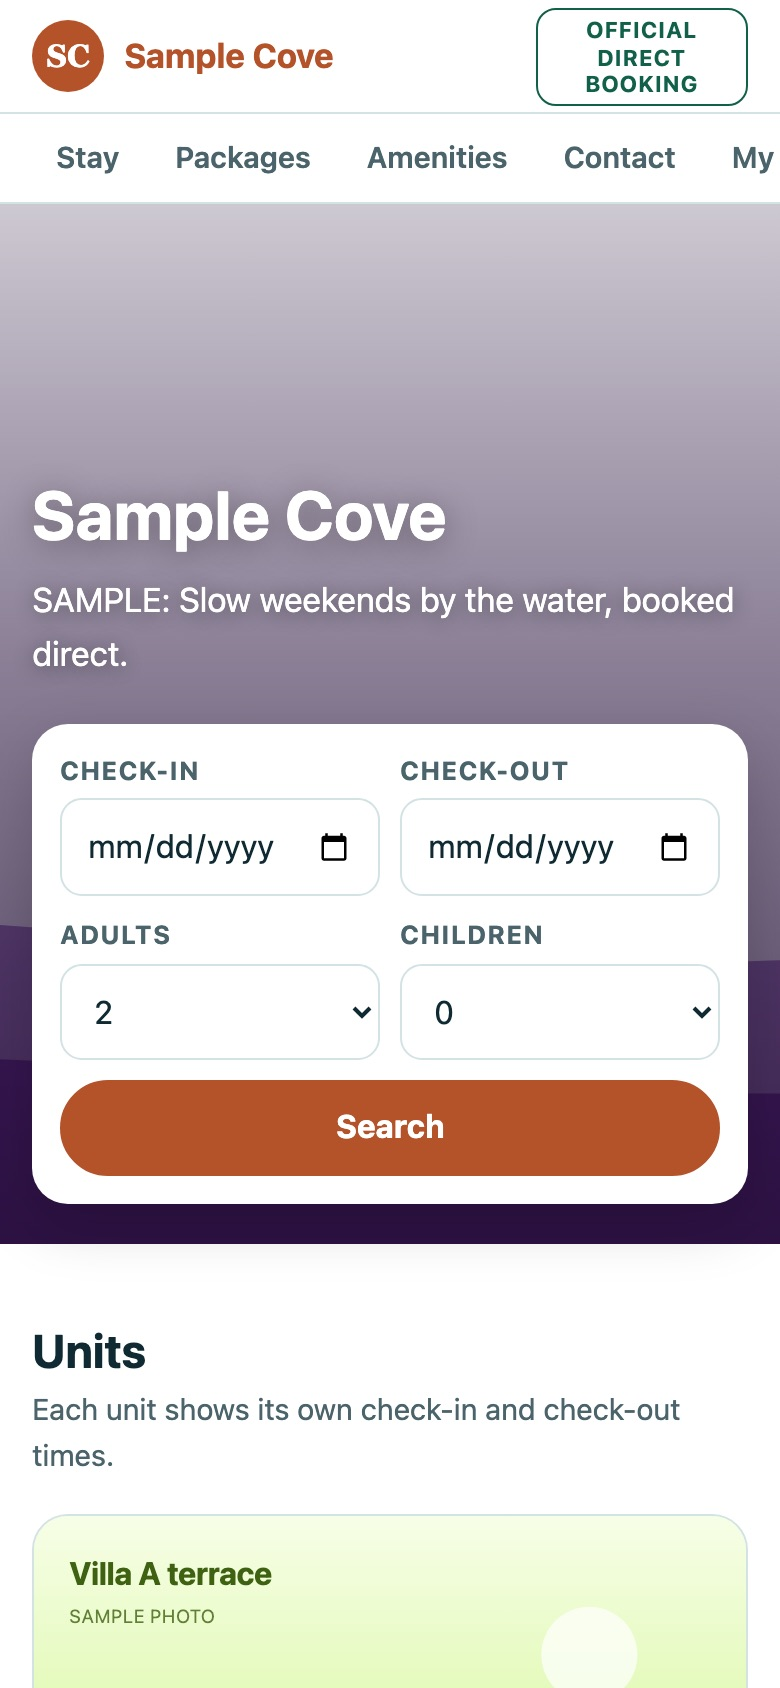
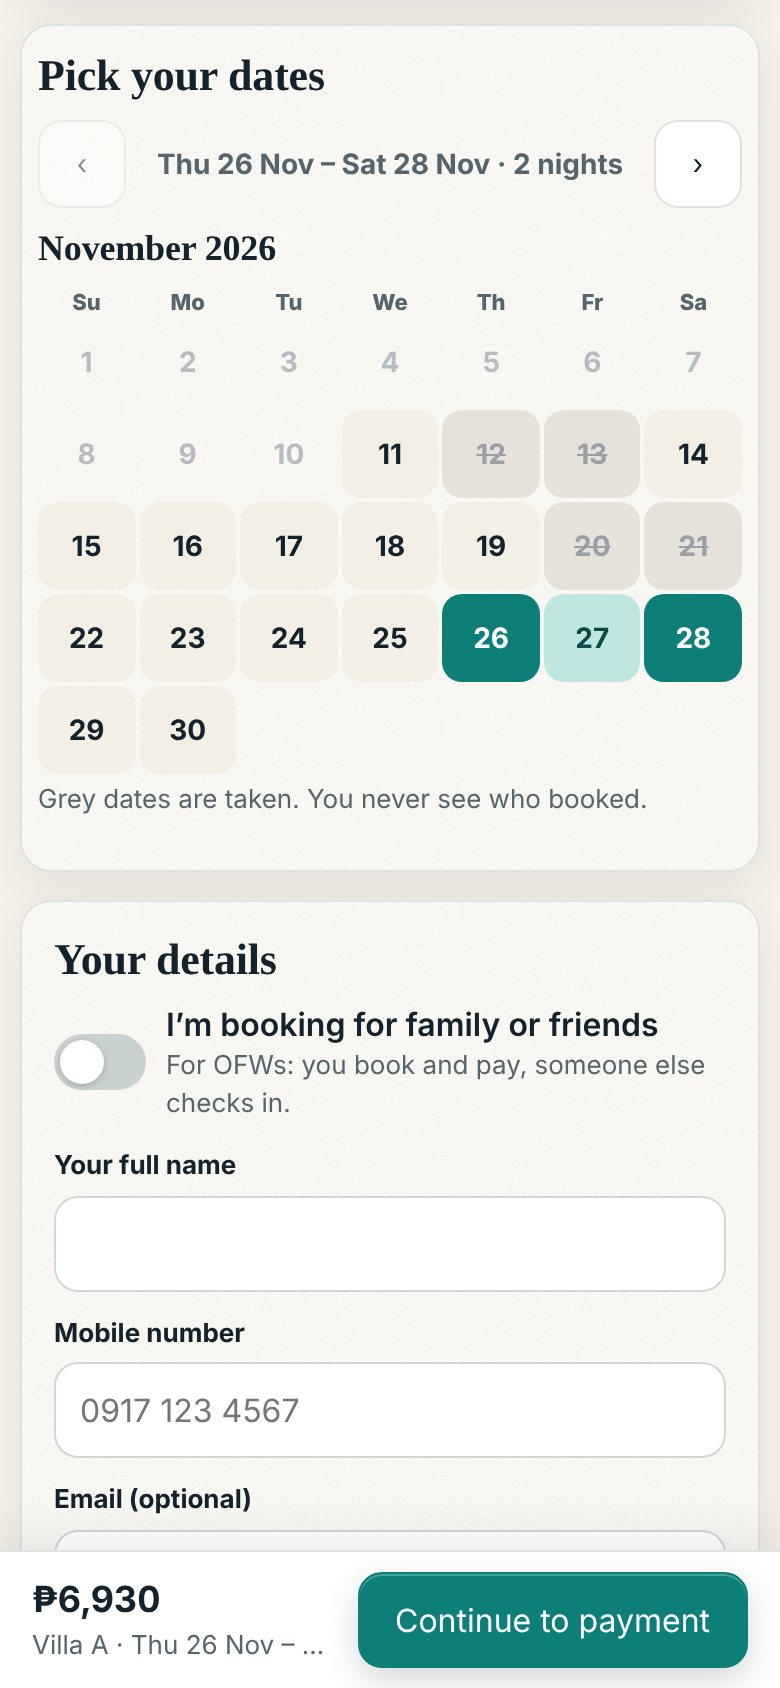
feat(staycation): Staycation Booking is live
The system is live at negosyoplans.com/stays (Angie, 10 Nov 2026).

- Deck card: Coming soon → Live, real features (paid dates block by
  themselves, weekend rates/promos/packages, OFW booking for family,
  checklist + house agreement, own web address), facts as stats
  (P0 monthly fee · 5% per confirmed stay · guests pay you), CTA
  'See how it works' → /staycation.
- /staycation: Live chip, honest how-it-works for guests and owners
  (pay the owner at checkout, dates held, owner confirms), 9 features the
  app has today, 'Create my booking page' → negosyoplans.com/stays
  instead of the pilot sign-up.
- Screens replaced with the LIVE app (SAMPLE data, 780x1688): guest page,
  checkout, owner home, payment to check. Old screens from the earlier
  test app removed.
- Page meta, portfolio line and the motion map node (gold = live) updated.

Checks: build OK; /staycation + deck card at 360/390/768/820/1024/1180/
1280/1440 (no sideways scroll, CTAs 52 px, 4 screens load, no 'coming
soon'); test:lang-toggle 306/306, test:affiliates 228/228,
test:affiliates-rate 133/133.

Claude-Session: https://claude.ai/code/session_011KDHvvzmnif7Fu1tooWC7n

diff --git a/src/pages/Staycation.tsx b/src/pages/Staycation.tsx
@@ -1,51 +1,52 @@
 import { useEffect } from 'react'
 import type { CSSProperties } from 'react'
 import {
-  Building2, Tags, Clock, Users, ShieldCheck, Palette, Share2,
-  CalendarRange, Receipt, FileSignature, Wallet, CheckCircle2, Inbox, CalendarDays, ClipboardCheck, BadgeCheck,
+  Building2, Tags, Users, Palette, Share2, Globe, RefreshCw, Smartphone,
+  CalendarRange, Receipt, FileSignature, Wallet, CheckCircle2, Inbox, CalendarDays, ClipboardCheck, BadgeCheck, ArrowRight,
 } from 'lucide-react'
 import Reveal from '../components/ui/Reveal'
-import PilotForm from '../components/automation/PilotForm'
 import { StayMark } from '../components/ProductDeck'
-import '../components/automation/automation.css'
 
-/* ── Staycation Booking (/staycation) — COMING SOON (2026-10-27) ─────────────────────────────
-   The deck card's own page: what it will do, for guests and for owners, and a pilot sign-up. Honest copy only: it is
-   NOT open to customers yet — no prices, no "book now", no link to the private preview. The screens are our own app
-   with SAMPLE data (no real customers, no third-party photos). The sign-up reuses the Business Automation pilot form
-   (Supabase pilot_signups), tagged "Staycation booking" in `automations` — no database change.
+/* ── Staycation Booking (/staycation) — LIVE (10 Nov 2026) ────────────────────────────────────
+   The deck card's own page: how it works for guests and owners, what it does, real screens and the sign-up button
+   (negosyoplans.com/stays). Honest copy only — every line here is something the live app does today. The screens are
+   the live app with SAMPLE data (no real customers, no third-party photos). Terms as in the app: free to start, 5% of
+   each confirmed stay, no monthly fee; guests pay the deposit straight to the owner — Lintejas never holds it.
    Same site header / footer / navy background as the other venture pages; sea-teal accent like the deck card. */
 
 const TEAL = '#2EC4B6'
-const LINE = 'Direct booking for staycation owners: your own page, your own prices, and every request in one place.'
+const LINE = 'Direct booking for staycation owners: your own page, your own prices, and every booking in one place.'
+const APP = 'https://negosyoplans.com/stays'
 
 const GUEST_STEPS = [
-  { icon: CalendarRange, t: 'Pick a unit and dates', d: 'A calendar for each unit shows what is free, booked or on hold.' },
+  { icon: CalendarRange, t: 'Pick a unit and dates', d: 'A calendar for each unit shows which nights are free.' },
   { icon: Receipt, t: 'See the price', d: 'The total is worked out from the owner’s rates, promos and packages.' },
-  { icon: FileSignature, t: 'Sign the agreement', d: 'House rules, check-in times and the unit inventory, signed with a typed name.' },
-  { icon: Wallet, t: 'Send the deposit', d: 'GCash, Maya, a bank or a transfer from abroad, with a reference or a proof photo.' },
-  { icon: CheckCircle2, t: 'The owner confirms', d: 'Nothing is booked until the owner checks it and says yes.' },
+  { icon: FileSignature, t: 'Sign the house agreement', d: 'The owner’s house rules, signed with a typed name.' },
+  { icon: Wallet, t: 'Pay the deposit to the owner', d: 'GCash, bank or QR — straight to the owner. The guest sends the reference and a screenshot, and the dates are held at once.' },
+  { icon: CheckCircle2, t: 'The owner confirms', d: 'The owner checks the money and confirms. If nothing arrived, the dates open again.' },
 ]
 const OWNER_STEPS = [
-  { icon: Inbox, t: 'Requests inbox', d: 'Accept, decline or suggest other dates, with ready-made messages to send.' },
-  { icon: CalendarDays, t: 'Calendar', d: 'Every unit and night at a glance; block dates for maintenance or walk-ins.' },
-  { icon: ClipboardCheck, t: 'Handover and turnover', d: 'An inventory checklist at check-in and check-out, signed by the guest.' },
-  { icon: BadgeCheck, t: 'Your own brand and link', d: 'Your logo, colour and tagline on a page with your own address.' },
+  { icon: Inbox, t: 'Payments to check', d: 'Every paid booking with its reference and screenshot — confirm or decline in one tap, then send a ready message.' },
+  { icon: CalendarDays, t: 'Calendar', d: 'Every unit and night at a glance; add walk-in, phone or Facebook bookings yourself.' },
+  { icon: ClipboardCheck, t: 'Check-in and check-out', d: 'A checklist for each stay, balance paid, and private notes.' },
+  { icon: BadgeCheck, t: 'Your monthly statement', d: 'Free to start: 5% of each confirmed stay, no monthly fee. Paid once a month by GoTyme QR.' },
 ]
 const FEATURES = [
   { icon: Building2, t: 'Multi-unit', d: 'Villas, cabins or rooms — one page for all of them.' },
-  { icon: Tags, t: 'Owner-ruled pricing and promos', d: 'Weekday, weekend and peak rates, promos and packages you set.' },
-  { icon: Clock, t: 'Check-in and check-out times per unit', d: 'Each unit keeps its own times, with early or late on request.' },
-  { icon: Users, t: 'Book for someone else', d: 'An OFW abroad books and pays; a family member checks in first.' },
-  { icon: ShieldCheck, t: 'Security deposit and inventory checklist', d: 'What was there at check-in, what is missing at check-out.' },
-  { icon: Palette, t: 'Your own logo, colour and tagline', d: 'A page that looks like your place, not like ours.' },
-  { icon: Share2, t: 'Share link preview', d: 'Your photo, name and tagline when the link is shared on Messenger or Facebook.' },
+  { icon: Tags, t: 'Your prices, promos and packages', d: 'Weekday and Fri/Sat rates, promos (also with a secret code) and fixed-price packages.' },
+  { icon: Users, t: 'Book for someone else', d: 'An OFW abroad books and pays; a family member checks in.' },
+  { icon: FileSignature, t: 'House agreement and checklist', d: 'Guests sign your rules before they book; tick what was there at check-in and check-out.' },
+  { icon: Palette, t: 'Your own logo, colour and photos', d: 'A theme, cover photo, logo and gallery — a page that looks like your place.' },
+  { icon: Globe, t: 'Your own web address', d: 'Use the free link, or connect your own domain such as www.yourplace.ph.' },
+  { icon: RefreshCw, t: 'Airbnb / Booking.com calendar sync', d: 'Nights booked there are blocked here, and the other way round — only “busy” dates, never names.' },
+  { icon: Share2, t: 'Share link preview', d: 'Your name and tagline when the link is shared on Messenger or Facebook.' },
+  { icon: Smartphone, t: 'An app on your phone', d: 'Install the dashboard on your home screen — with a built-in guide, in English and Tagalog.' },
 ]
 const SCREENS = [
-  { src: '/brand/staycation/01-guest-page.jpg', t: 'The guest page', d: 'Your name, tagline and colour' },
-  { src: '/brand/staycation/02-book-for-someone.jpg', t: 'Book for someone else', d: 'Booker abroad, family checks in' },
-  { src: '/brand/staycation/03-owner-inbox.jpg', t: 'The owner’s inbox', d: 'Who booked, who checks in' },
-  { src: '/brand/staycation/04-handover.jpg', t: 'Check-in handover', d: 'Inventory checklist on the phone' },
+  { src: '/brand/staycation/01-guest-page.jpg', t: 'The guest page', d: 'Pick a unit and dates' },
+  { src: '/brand/staycation/02-checkout.jpg', t: 'Checkout', d: 'Pay the deposit straight to the owner' },
+  { src: '/brand/staycation/03-owner-home.jpg', t: 'The owner’s home', d: 'Calendar, this week and what needs you' },
+  { src: '/brand/staycation/04-paid-check.jpg', t: 'A payment to check', d: 'Reference, then Confirm or Decline' },
 ]
 
 function Chip() {
@@ -53,8 +54,17 @@ function Chip() {
     <div className="inline-flex items-center gap-2 px-4 py-1.5 rounded-full text-xs font-semibold tracking-widest uppercase mb-6"
       style={{ background: 'rgba(46,196,182,0.10)', border: '1px solid rgba(46,196,182,0.35)', color: TEAL }}>
       <span className="w-1.5 h-1.5 rounded-full" style={{ background: TEAL }} />
-      Coming soon
+      Live
     </div>
+  )
+}
+
+function StartButton() {
+  return (
+    <a href={APP} className="inline-flex items-center justify-center gap-2 mt-7 px-7 rounded-xl font-semibold text-base"
+      style={{ minHeight: 52, background: TEAL, color: '#06221F', boxShadow: '0 10px 30px rgba(46,196,182,0.25)' }}>
+      Create my booking page <ArrowRight size={18} aria-hidden="true" />
+    </a>
   )
 }
 
@@ -93,12 +103,13 @@ export default function Staycation() {
           <Chip />
           <div className="mb-5 mx-auto" aria-hidden="true" style={{ width: '3.75rem', height: '3.75rem' }}>{StayMark}</div>
           <h1 className="font-display font-semibold text-4xl sm:text-5xl lg:text-6xl mb-4" style={{ color: 'var(--cream)', textWrap: 'balance' } as CSSProperties}>
-            Staycation <span style={{ color: TEAL }}>Booking</span> — coming soon
+            Staycation <span style={{ color: TEAL }}>Booking</span>
           </h1>
           <p className="text-lg max-w-2xl mx-auto" style={{ color: 'var(--slate)' }}>{LINE}</p>
           <p className="text-sm max-w-2xl mx-auto mt-3" style={{ color: 'var(--slate)' }}>
-            Not open to customers yet. Owners can join the pilot below.
+            Free to start — Lintejas charges 5% of each stay you confirm. No monthly fee. Guests pay the deposit straight to you.
           </p>
+          <StartButton />
         </Reveal>
 
         {/* ── How it works ── */}
@@ -112,7 +123,7 @@ export default function Staycation() {
 
         {/* ── Features ── */}
         <Reveal className="mb-16">
-          <h2 className="font-display font-semibold text-3xl sm:text-4xl text-center mb-8" style={{ color: 'var(--cream)' }}>What it will do</h2>
+          <h2 className="font-display font-semibold text-3xl sm:text-4xl text-center mb-8" style={{ color: 'var(--cream)' }}>What it does</h2>
           <ul className="grid gap-4 sm:grid-cols-2 lg:grid-cols-3">
             {FEATURES.map(f => (
               <li key={f.t} className="rounded-2xl border p-5 flex items-start gap-3" style={{ background: 'var(--glass-bg)', borderColor: 'var(--glass-border)' }}>
@@ -129,7 +140,7 @@ export default function Staycation() {
         {/* ── Screens (our own app, SAMPLE data) ── */}
         <Reveal className="mb-16">
           <h2 className="font-display font-semibold text-3xl sm:text-4xl text-center mb-2" style={{ color: 'var(--cream)' }}>A first look</h2>
-          <p className="text-sm text-center mb-8" style={{ color: 'var(--slate)' }}>Screens from the app in development, with SAMPLE data only.</p>
+          <p className="text-sm text-center mb-8" style={{ color: 'var(--slate)' }}>Screens from the live app, with SAMPLE data only.</p>
           <ul className="grid gap-5 grid-cols-2 lg:grid-cols-4">
             {SCREENS.map(s => (
               <li key={s.src} className="min-w-0">
@@ -146,13 +157,15 @@ export default function Staycation() {
           </ul>
         </Reveal>
 
-        {/* ── Join the pilot (the Business Automation pilot sign-up, tagged "Staycation booking") ── */}
+        {/* ── Start: the live app (sign up = property name + email, login link by email) ── */}
         <Reveal className="max-w-3xl mx-auto">
-          <section id="join" aria-labelledby="st-join-h" className="ba rounded-2xl p-6 sm:p-8"
-            style={{ '--ba-violet': '#0B6E66', '--ba-violet2': '#139C8F', '--ba-soft': '#E3F6F3', scrollMarginTop: 'calc(88px + env(safe-area-inset-top))' } as CSSProperties}>
-            <h2 id="st-join-h" className="ba-h2">Notify me / join the pilot</h2>
-            <p className="ba-sub">Run a staycation, resort or villas? Leave your details and we will contact you when the pilot opens. No payment is asked for.</p>
-            <PilotForm tag="Staycation booking" defaultType="Other" />
+          <section aria-labelledby="st-go-h" className="rounded-2xl border p-6 sm:p-8 text-center"
+            style={{ background: 'var(--glass-bg)', borderColor: 'rgba(46,196,182,0.35)' }}>
+            <h2 id="st-go-h" className="font-display font-semibold text-3xl mb-3" style={{ color: 'var(--cream)' }}>Create your booking page</h2>
+            <p className="text-sm max-w-xl mx-auto" style={{ color: 'var(--slate)' }}>
+              Your property name and email are all you need. A short setup guide walks you through prices, photos and how guests pay you.
+            </p>
+            <StartButton />
           </section>
         </Reveal>
 

diff --git a/src/components/ProductDeck.tsx b/src/components/ProductDeck.tsx
@@ -152,22 +152,22 @@ export const CARDS: Card[] = [
     ],
     stats: [{ b: '₱99', s: 'per month' }, { b: '7-day', s: 'free trial' }, { b: 'No', s: 'contract' }],
     cta: 'Start free' },
-  // Staycation Booking — COMING SOON (2026-10-27): direct booking for staycation owners, built on the Business Automation
-  // platform and not open to customers yet. Own page /staycation (pilot sign-up only). Sea-teal accent (index.css
-  // data-v="staycation"). Stats are facts, not figures. Placed directly after Matthew Lite.
-  { v: 'staycation', badgeSoon: true, soon: true, href: '/staycation', svg: StayMark,
-    title: 'Staycation Booking', hook: 'Your own booking page — guests pick dates, sign the house agreement and send the deposit, all in one link.',
-    pill: 'Coming soon', kicker: 'Direct booking for staycation owners', name: 'Staycation Booking',
-    promise: 'Your own booking page — guests pick dates, sign the house agreement and send the deposit, all in one link.',
-    pointsLabel: 'Planned features',
+  // Staycation Booking — LIVE (10 Nov 2026): direct booking for staycation owners at negosyoplans.com/stays.
+  // Guests pay the deposit straight to the owner at checkout; the owner pays Lintejas 5% of each confirmed stay.
+  // Sea-teal accent (index.css data-v="staycation"). Stats are facts, not figures. Placed directly after Matthew Lite.
+  { v: 'staycation', href: '/staycation', svg: StayMark,
+    title: 'Staycation Booking', hook: 'Your own booking page — guests pick dates, sign the house agreement and pay the deposit straight to you, all in one link.',
+    pill: 'Live', kicker: 'Direct booking for staycation owners', name: 'Staycation Booking',
+    promise: 'Your own booking page — guests pick dates, sign the house agreement and pay the deposit straight to you, all in one link.',
     points: [
-      { text: 'Per-unit availability calendar' },
-      { text: 'Owner-set prices, promos and packages' },
+      { text: 'Per-unit calendar — paid dates block by themselves' },
+      { text: 'Your prices, weekend rates, promos and packages' },
       { text: 'OFW-friendly: book for family, pay from abroad' },
-      { text: 'Check-in / check-out inventory checklist' },
+      { text: 'Check-in / check-out checklist, house agreement' },
+      { text: 'Your own web address — or the free link' },
     ],
-    stats: [{ b: 'Multi-unit', s: 'villas & rooms' }, { b: 'Your rules', s: 'prices & promos' }, { b: 'Direct', s: 'your own link' }],   // facts, no figures
-    cta: "See what's coming" },
+    stats: [{ b: '₱0', s: 'monthly fee' }, { b: '5%', s: 'per confirmed stay' }, { b: 'Direct', s: 'guests pay you' }],   // facts from the app's own terms
+    cta: 'See how it works' },
   { v: 'courses', badgeSoon: true, href: `${NP}/courses`, logo: '/brand/zam-mark.png', deckLogo: '/brand/zam-emblem.png',
     title: 'ZAM Academy', hook: 'Marketing that sells, not just gets likes.',
     pill: 'Courses', kicker: 'ZAM Academ.co', name: 'Digital Marketing',

diff --git a/src/App.tsx b/src/App.tsx
@@ -88,7 +88,7 @@ export default function App() {
             <Route path="/security"  element={<Security />} />
             <Route path="/automation" element={<Automation />} />
             <Route path="/staycation" element={<Staycation />} />
-            <Route path="/affiliates" element={<Affiliates />} />   {/* Affiliate program: one form for every brand (2 Nov 2026) */}   {/* Staycation Booking — coming soon (27 Oct 2026) */}
+            <Route path="/affiliates" element={<Affiliates />} />   {/* Affiliate program: one form for every brand (2 Nov 2026) */}   {/* Staycation Booking — live (10 Nov 2026) */}
             {/* Unknown public addresses → branded 404 (keeps nav + footer) */}
             <Route path="*"          element={<NotFound />} />
           </Route>

diff --git a/src/lib/portfolio.ts b/src/lib/portfolio.ts
@@ -26,7 +26,7 @@ const META: Record<string, Omit<PortfolioItem, 'v'>> = {
   lite: { name: 'Matthew Lite',
     purpose: 'Know every day if you really earned — sales, expenses, profit and your cash split at a glance.' },
   staycation: { name: 'Staycation Booking',
-    purpose: 'Direct booking for staycation owners — your own booking page, prices and house agreement. Coming soon.' },
+    purpose: 'Direct booking for staycation owners — your own booking page, prices and house agreement; guests pay the deposit straight to you.' },
   courses: { name: 'ZAM Academy',
     purpose: 'Practical digital-marketing courses — marketing that sells, not just gets likes.' },
   supplier: { name: 'WDRICH Supplier Registration', short: 'WDRICH',

diff --git a/src/components/motion/config/ventures.ts b/src/components/motion/config/ventures.ts
@@ -53,9 +53,9 @@ export const VENTURE_NODES: VentureNode[] = [
   {
     id:     'staycation',
     label:  'Staycation Booking',
-    status: 'coming-soon',   // coming soon (27 Oct 2026) — not open to customers yet
+    status: 'live',          // live since 10 Nov 2026 (negosyoplans.com/stays)
     radius: 8,
-    color:  '#9A7A2E',       // bronze (not live)
+    color:  '#D4A843',       // gold (live)
     angle:  Math.PI * 1.20,
     orbit:  168,
   },
